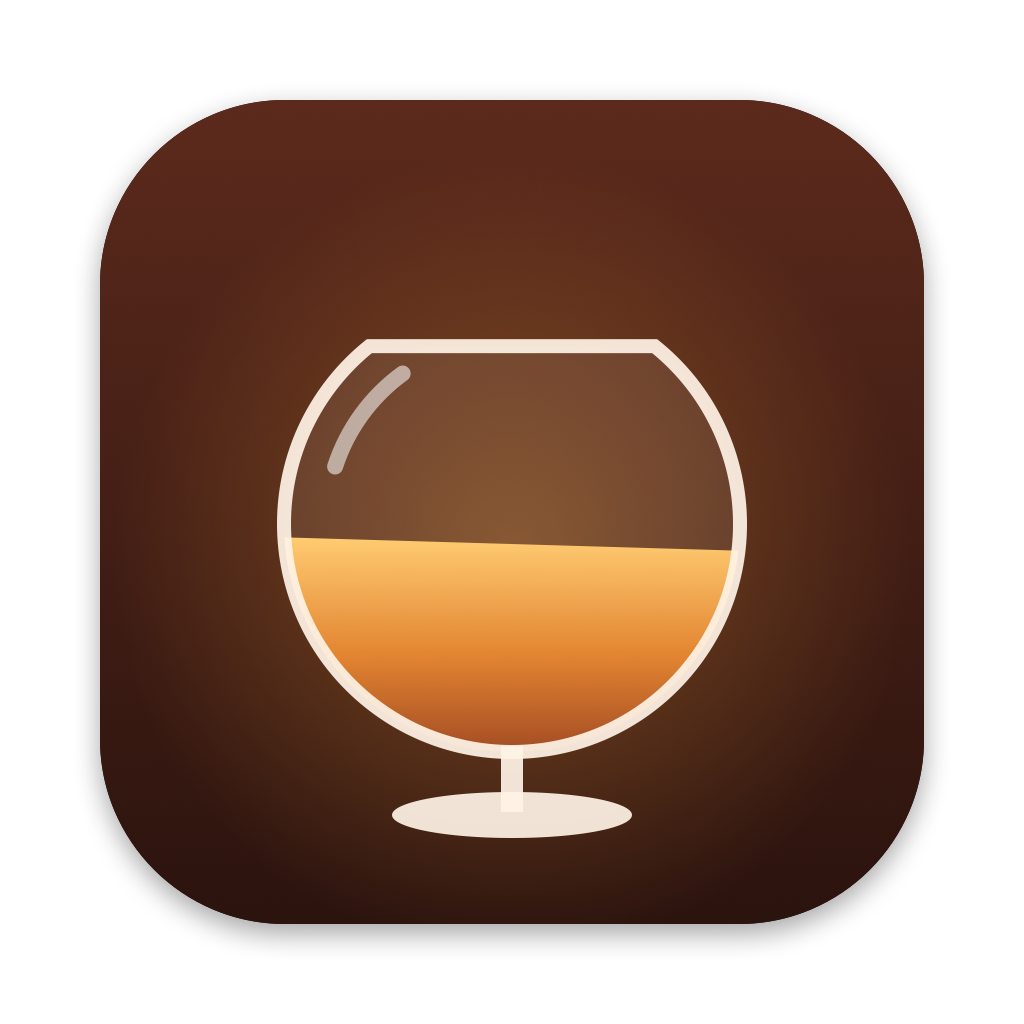
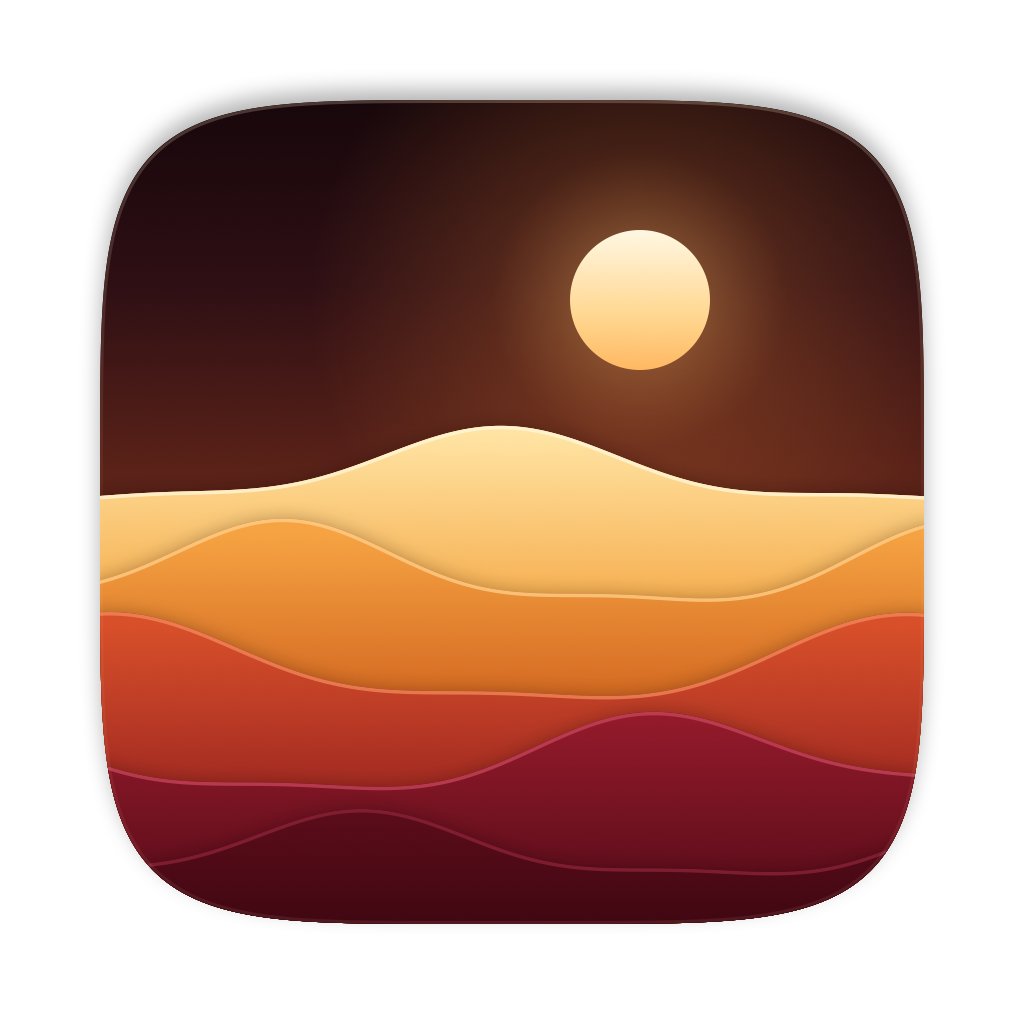
Point at iStorry/Brandy and fix CI's stale package cache (#5)
* Point at iStorry/Brandy and fix CI's stale package cache

The repository is now iStorry/Brandy. The runtime download URL, update feed,
Help menu link, README badge and publish script use the new name. GitHub
redirects the old URLs, so earlier builds keep downloading the runtime.

CI on main failed with "There is no XCFramework found at
.build/SourcePackages/artifacts/sparkle/Sparkle/Sparkle.xcframework": the
restored package cache had checkouts but not Sparkle's binary artifact, and
neither -disableAutomaticPackageResolution nor an explicit resolve downloads
a missing artifact once packages count as resolved, so the bad cache failed
every build. CI now caches only the Git mirrors under a new key; checkouts and
artifacts are recreated each run at the versions pinned in Package.resolved.
Reproduced locally by deleting the artifact, then built successfully from the
Git mirrors alone.

* Redraw the app icon as layered waves of wine and brandy

The snifter icon read as flat clip art. The new icon, Strata, shows five
flowing bands rising from deep wine to gold under a glowing sun: brandy
distilled from wine.

scripts/generate-app-icon.swift draws it in Core Graphics and writes every
size the app icon set needs, the Quick Look thumbnail badge (which still
showed the old Whisky icon) and the README image.

* Make the icon generator pass SwiftLint

CI's lint step failed on scripts/generate-app-icon.swift: it lacked the
[…]

diff --git a/scripts/generate-app-icon.swift b/scripts/generate-app-icon.swift
@@ -1,0 +1,278 @@
+#!/usr/bin/env swift
+//
+//  generate-app-icon.swift
+//  Brandy
+//
+//  This file is part of Whisky.
+//
+//  Whisky is free software: you can redistribute it and/or modify it under the terms
+//  of the GNU General Public License as published by the Free Software Foundation,
+//  either version 3 of the License, or (at your option) any later version.
+//
+//  Whisky is distributed in the hope that it will be useful, but WITHOUT ANY WARRANTY;
+//  without even the implied warranty of MERCHANTABILITY or FITNESS FOR A PARTICULAR PURPOSE.
+//  See the GNU General Public License for more details.
+//
+//  You should have received a copy of the GNU General Public License along with Whisky.
+//  If not, see https://www.gnu.org/licenses/.
+//
+
+// Renders the Brandy app icon at every size the asset catalogs need.
+// Usage: swift scripts/generate-app-icon.swift   (run from the repository root)
+
+import AppKit
+import CoreGraphics
+
+/// All geometry is authored on Apple's 1024 pt macOS icon grid, y pointing down.
+let canvas: CGFloat = 1024
+let tileRect = CGRect(x: 100, y: 100, width: 824, height: 824)
+let tileSquircleExponent: CGFloat = 5
+
+let sunCenter = CGPoint(x: 640, y: 300)
+let sunRadius: CGFloat = 70
+
+/// One band of liquid: a sine wave across the tile, filled with a vertical gradient below it.
+struct Stratum {
+    let baseline: CGFloat
+    let amplitude: CGFloat
+    let wavelength: CGFloat
+    let phase: CGFloat
+    let topColor: UInt32
+    let bottomColor: UInt32
+    let crestColor: UInt32
+}
+
+/// Ordered from the top band down, distilling from deep wine at the bottom to gold at the top.
+let strata: [Stratum] = [
+    Stratum(baseline: 470, amplitude: 34, wavelength: 760, phase: 0.6,
+            topColor: 0xFFE3A2, bottomColor: 0xF5A947, crestColor: 0xFFF6DA),
+    Stratum(baseline: 568, amplitude: 38, wavelength: 700, phase: 2.2,
+            topColor: 0xF6A443, bottomColor: 0xD0621D, crestColor: 0xFFD08A),
+    Stratum(baseline: 664, amplitude: 40, wavelength: 820, phase: 3.9,
+            topColor: 0xD8502A, bottomColor: 0x9A2420, crestColor: 0xF38A5A),
+    Stratum(baseline: 758, amplitude: 36, wavelength: 740, phase: 5.3,
+            topColor: 0x921A2A, bottomColor: 0x560B18, crestColor: 0xC8455A),
+    Stratum(baseline: 848, amplitude: 30, wavelength: 680, phase: 1.4,
+            topColor: 0x5A0C1A, bottomColor: 0x2E040C, crestColor: 0x8E2238)
+]
+
+let colorSpace = CGColorSpace(name: CGColorSpace.displayP3) ?? CGColorSpaceCreateDeviceRGB()
+
+func color(_ hex: UInt32, _ alpha: CGFloat = 1) -> CGColor {
+    CGColor(
+        colorSpace: colorSpace,
+        components: [
+            CGFloat((hex >> 16) & 0xFF) / 255,
+            CGFloat((hex >> 8) & 0xFF) / 255,
+            CGFloat(hex & 0xFF) / 255,
+            alpha
+        ]
+    ) ?? CGColor(gray: 0, alpha: alpha)
+}
+
+func gradient(_ stops: [(CGColor, CGFloat)]) -> CGGradient? {
+    CGGradient(colorsSpace: colorSpace, colors: stops.map(\.0) as CFArray, locations: stops.map(\.1))
+}
+
+func fill(_ ctx: CGContext, _ path: CGPath, with gradient: CGGradient?, from start: CGPoint, to end: CGPoint) {
+    guard let gradient else { return }
+    ctx.saveGState()
+    ctx.addPath(path)
+    ctx.clip()
+    ctx.drawLinearGradient(gradient, start: start, end: end,
+                           options: [.drawsBeforeStartLocation, .drawsAfterEndLocation])
+    ctx.restoreGState()
+}
+
+func fillRadial(_ ctx: CGContext, _ path: CGPath, with gradient: CGGradient?, center: CGPoint, radius: CGFloat) {
+    guard let gradient else { return }
+    ctx.saveGState()
+    ctx.addPath(path)
+    ctx.clip()
+    ctx.drawRadialGradient(gradient, startCenter: center, startRadius: 0,
+                           endCenter: center, endRadius: radius, options: [])
+    ctx.restoreGState()
+}
+
+/// Superellipse tile, the continuous-corner shape macOS icons use.
+func squirclePath(in rect: CGRect, exponent: CGFloat) -> CGPath {
+    let path = CGMutablePath()
+    let steps = 720
+    for step in 0...steps {
+        let angle = CGFloat(step) / CGFloat(steps) * 2 * .pi
+        let cosine = cos(angle)
+        let sine = sin(angle)
+        let unitX = pow(abs(cosine), 2 / exponent) * (cosine < 0 ? -1 : 1)
+        let unitY = pow(abs(sine), 2 / exponent) * (sine < 0 ? -1 : 1)
+        let point = CGPoint(x: rect.midX + unitX * rect.width / 2, y: rect.midY + unitY * rect.height / 2)
+        if step == 0 {
+            path.move(to: point)
+        } else {
+            path.addLine(to: point)
+        }
+    }
+    path.closeSubpath()
+    return path
+}
+
+extension Stratum {
+    func surfaceY(atX column: CGFloat) -> CGFloat {
+        let angle = 2 * .pi * column / wavelength + phase
+        return baseline + amplitude * sin(angle) + amplitude * 0.3 * sin(angle * 2.1 + 1)
+    }
+
+    func crest() -> CGPath {
+        let path = CGMutablePath()
+        let range = stride(from: tileRect.minX - 20, through: tileRect.maxX + 20, by: 4)
+        for column in range {
+            let point = CGPoint(x: column, y: surfaceY(atX: column))
+            if path.isEmpty {
+                path.move(to: point)
+            } else {
+                path.addLine(to: point)
+            }
+        }
+        return path
+    }
+
+    func body() -> CGPath {
+        let path = CGMutablePath()
+        path.addPath(crest())
+        path.addLine(to: CGPoint(x: tileRect.maxX + 20, y: canvas))
+        path.addLine(to: CGPoint(x: tileRect.minX - 20, y: canvas))
+        path.closeSubpath()
+        return path
+    }
+}
+
+func drawTile(_ ctx: CGContext, _ tile: CGPath) {
+    ctx.saveGState()
+    ctx.setShadow(offset: CGSize(width: 0, height: 10), blur: 22, color: color(0x000000, 0.3))
+    ctx.addPath(tile)
+    ctx.setFillColor(color(0x1C080C))
+    ctx.fillPath()
+    ctx.restoreGState()
+
+    fill(
+        ctx, tile,
+        with: gradient([(color(0x17070B), 0), (color(0x2E0F14), 0.5), (color(0x5A2218), 1)]),
+        from: CGPoint(x: 512, y: tileRect.minY),
+        to: CGPoint(x: 512, y: strata[0].baseline)
+    )
+}
+
+func drawSun(_ ctx: CGContext, _ tile: CGPath) {
+    fillRadial(
+        ctx, tile,
+        with: gradient([
+            (color(0xFFC36A, 0.55), 0), (color(0xF58A3A, 0.18), 0.45), (color(0xF58A3A, 0), 1)
+        ]),
+        center: sunCenter,
+        radius: 330
+    )
+    let sun = CGPath(
+        ellipseIn: CGRect(x: sunCenter.x - sunRadius, y: sunCenter.y - sunRadius,
+                          width: sunRadius * 2, height: sunRadius * 2),
+        transform: nil
+    )
+    fill(
+        ctx, sun,
+        with: gradient([(color(0xFFF7E2), 0), (color(0xFFD892), 0.6), (color(0xFFB862), 1)]),
+        from: CGPoint(x: sunCenter.x, y: sunCenter.y - sunRadius),
+        to: CGPoint(x: sunCenter.x, y: sunCenter.y + sunRadius)
+    )
+}
+
+func drawStratum(_ ctx: CGContext, _ stratum: Stratum) {
+    let body = stratum.body()
+
+    ctx.saveGState()
+    ctx.setShadow(offset: CGSize(width: 0, height: -8), blur: 26, color: color(0x0A0204, 0.55))
+    ctx.addPath(body)
+    ctx.setFillColor(color(stratum.bottomColor))
+    ctx.fillPath()
+    ctx.restoreGState()
+
+    fill(
+        ctx, body,
+        with: gradient([(color(stratum.topColor), 0), (color(stratum.bottomColor), 1)]),
+        from: CGPoint(x: 512, y: stratum.baseline - stratum.amplitude),
+        to: CGPoint(x: 512, y: stratum.baseline + 150)
+    )
+
+    ctx.saveGState()
+    ctx.addPath(body)
+    ctx.clip()
+    ctx.addPath(stratum.crest())
+    ctx.setLineWidth(7)
+    ctx.setStrokeColor(color(stratum.crestColor, 0.75))
+    ctx.strokePath()
+    ctx.restoreGState()
+}
+
+func drawTileEdge(_ ctx: CGContext) {
+    let edge = squirclePath(in: tileRect.insetBy(dx: 1.5, dy: 1.5), exponent: tileSquircleExponent)
+        .copy(strokingWithWidth: 3, lineCap: .round, lineJoin: .round, miterLimit: 10)
+    fill(
+        ctx, edge,
+        with: gradient([
+            (color(0xFFE2C0, 0.22), 0), (color(0xFFE2C0, 0.03), 0.5), (color(0xFFE2C0, 0.08), 1)
+        ]),
+        from: CGPoint(x: 512, y: tileRect.minY),
+        to: CGPoint(x: 512, y: tileRect.maxY)
+    )
+}
+
+func renderIcon(pixels: Int) -> Data? {
+    guard let ctx = CGContext(
+        data: nil, width: pixels, height: pixels, bitsPerComponent: 8, bytesPerRow: 0,
+        space: colorSpace, bitmapInfo: CGImageAlphaInfo.premultipliedLast.rawValue
+    ) else { return nil }
+
+    let scale = CGFloat(pixels) / canvas
+    ctx.translateBy(x: 0, y: CGFloat(pixels))
+    ctx.scaleBy(x: scale, y: -scale)
+
+    let tile = squirclePath(in: tileRect, exponent: tileSquircleExponent)
+    drawTile(ctx, tile)
+
+    ctx.saveGState()
+    ctx.addPath(tile)
+    ctx.clip()
+    drawSun(ctx, tile)
+    strata.forEach { drawStratum(ctx, $0) }
+    ctx.restoreGState()
+
+    drawTileEdge(ctx)
+
+    guard let image = ctx.makeImage() else { return nil }
+    return NSBitmapImageRep(cgImage: image).representation(using: .png, properties: [:])
+}
+
+let outputs: [(path: String, pixels: Int)] = [
+    ("Whisky/Assets.xcassets/AppIcon.appiconset/icon_16x16.png", 16),
+    ("Whisky/Assets.xcassets/AppIcon.appiconset/icon_16x16@2x.png", 32),
+    ("Whisky/Assets.xcassets/AppIcon.appiconset/icon_32x32.png", 32),
+    ("Whisky/Assets.xcassets/AppIcon.appiconset/icon_32x32@2x.png", 64),
+    ("Whisky/Assets.xcassets/AppIcon.appiconset/icon_128x128.png", 128),
+    ("Whisky/Assets.xcassets/AppIcon.appiconset/icon_128x128@2x.png", 256),
+    ("Whisky/Assets.xcassets/AppIcon.appiconset/icon_256x256.png", 256),
+    ("Whisky/Assets.xcassets/AppIcon.appiconset/icon_256x256@2x.png", 512),
+    ("Whisky/Assets.xcassets/AppIcon.appiconset/icon_512x512.png", 512),
+    ("Whisky/Assets.xcassets/AppIcon.appiconset/icon_512x512@2x.png", 1024),
+    ("WhiskyThumbnail/Icons.xcassets/Icon.imageset/512R512x1.png", 512),
+    ("images/brandy-icon.png", 1024)
+]
+
+for output in outputs {
+    guard let png = renderIcon(pixels: output.pixels) else {
+        FileHandle.standardError.write(Data("Failed to render \(output.path)\n".utf8))
+        exit(1)
+    }
+    do {
+        try png.write(to: URL(fileURLWithPath: output.path))
+    } catch {
+        FileHandle.standardError.write(Data("Failed to write \(output.path): \(error)\n".utf8))
+        exit(1)
+    }
+}

diff --git a/WhiskyKit/Sources/WhiskyKit/WhiskyWine/WhiskyWineInstaller.swift b/WhiskyKit/Sources/WhiskyKit/WhiskyWine/WhiskyWineInstaller.swift
@@ -48,7 +48,7 @@ public class WhiskyWineInstaller {
 
     /// Assets of the release for the supported major version, which `scripts/publish-whiskywine.sh` publishes
     private static let distributionURL: URL = {
-        let release = "https://github.com/iStorry/Whisky/releases/download/whiskywine-\(supportedMajorVersion)/"
+        let release = "https://github.com/iStorry/Brandy/releases/download/whiskywine-\(supportedMajorVersion)/"
         guard let url = URL(string: release) else {
             preconditionFailure("Invalid WhiskyWine distribution URL")
         }

diff --git a/Whisky/Views/WhiskyApp.swift b/Whisky/Views/WhiskyApp.swift
@@ -124,7 +124,7 @@ struct WhiskyApp: App {
             }
             CommandGroup(replacing: .help) {
                 Button("help.github") {
-                    if let url = URL(string: "https://github.com/iStorry/Whisky") {
+                    if let url = URL(string: "https://github.com/iStorry/Brandy") {
                         openURL(url)
                     }
                 }

diff --git a/README.md b/README.md
@@ -6,7 +6,7 @@
 
   *Windows games on your Mac, set up in a few clicks*
 
-  ![](https://img.shields.io/github/actions/workflow/status/iStorry/Whisky/CI.yml?branch=main&style=for-the-badge)
+  ![](https://img.shields.io/github/actions/workflow/status/iStorry/Brandy/CI.yml?branch=main&style=for-the-badge)
 </div>
 
 ---
